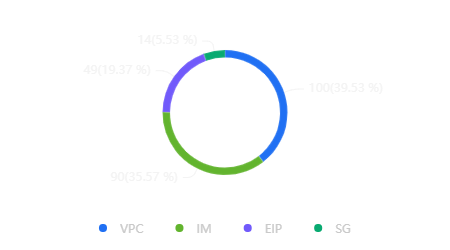
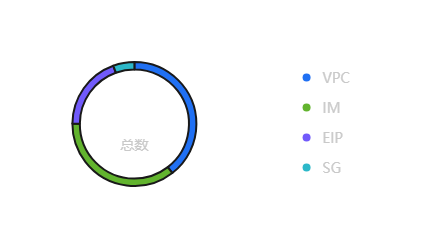
fix(PieChart): modify the handleCenterTitle and example (#263)

diff --git a/public/option/PieChart/PieChart-13.js b/public/option/PieChart/PieChart-13.js
@@ -1,16 +1,68 @@
 const option = {
-    theme: 'light',
-    label:{
-        show: true,
-        type:'percent',
-        line: true,
-        distance:10, // distance:控制文本与图表的距离,默认为25
+    theme: 'hdesign-light',
+    title: {
+        text: '{a|225}{b|GB} ',
+        subtext: '总数',
+        itemGap:2,
+        textStyle: {
+            rich: {
+                a: {
+                    fontSize: 48,
+                },
+                b: {
+                    fontSize: 14,
+                    padding: [15, 0, 0, 0]
+                }
+            }
+        },
+        subtextStyle: {
+            fontSize: 14
+        }
     },
-    data:[                             
-        {value: 100,name: 'VPC'},
-        {value: 90, name: 'IM' },
-        {value: 49, name: 'EIP'},
-        {value: 14, name: 'SG' },
+    legend: {
+        show: true,
+        position:{
+            right: '8%',
+            top: 'center'
+        },
+        orient:'vertical',
+        // legend.formatter 用于自定义图例文本
+        formatter: (name)=>{
+            let data =  [                             
+                {value: 100,name: 'VPC'},
+                {value: 90, name: 'IM' },
+                {value: 49, name: 'EIP'},
+                {value: 14, name: 'SG' },
+            ]
+            let item = data.filter((item) => item.name === name)[0];
+            return '{title|' + name + '}{value1|' + item.value +  'GB}'
+        },
+        legendType: 'value',
+        textStyle: {
+            rich: {
+                title: {
+                    fontSize: 14,
+                    padding: [0, 0, 0, 5],
+                    width: 80,
+                },
+                value1: {
+                    fontSize: 12,
+                    width: 20,
+                    fontWeight:'bold',
+                },
+            },
+        },
+    },
+    tooltip:{
+
+    },
+    label: {
+        show: false,
+    },
+    data: [
+        { value: 100, name: 'VPC' },
+        { value: 90, name: 'IM' },
+        { value: 49, name: 'EIP' },
+        { value: 14, name: 'SG' },
     ]
 };
-

diff --git a/src/option/config/polarTitle/handleCenterTitle.js b/src/option/config/polarTitle/handleCenterTitle.js
@@ -1,8 +1,10 @@
-import { getTextHeight } from '../../../util/dom';
+import { getTextHeight, removeOuterSpaces } from '../../../util/dom';
 import { percentToDecimal } from '../../../util/math';
 
 function updateTitle(position, chartInstance, baseOption, iChartOption) {
   // 获取圆环主副文本
+  baseOption.title.text = removeOuterSpaces(baseOption.title.text);
+  baseOption.title.subtext = removeOuterSpaces(baseOption.title.subtext);
   const textContent = baseOption.title.text;
   const subtextContent = baseOption.title.subtext;
   const textStyle = baseOption.title.textStyle;

diff --git a/src/util/dom.js b/src/util/dom.js
@@ -103,6 +103,11 @@ const getTextHeight = (text, fontSize = 12, lineHeight, padding) => {
     return result;
 }
 
+function removeOuterSpaces(text) {
+    // 使用正则表达式移除 {} 外的空格
+    return text.replace(/(?<=\})\s+|\s+(?=\{)/g, '').trim();
+}
+
 export {
     appendHTML,
     appendDom,
@@ -112,5 +117,6 @@ export {
     setStyle,
     isParent,
     getTextWidth,
-    getTextHeight
+    getTextHeight,
+    removeOuterSpaces
 }
